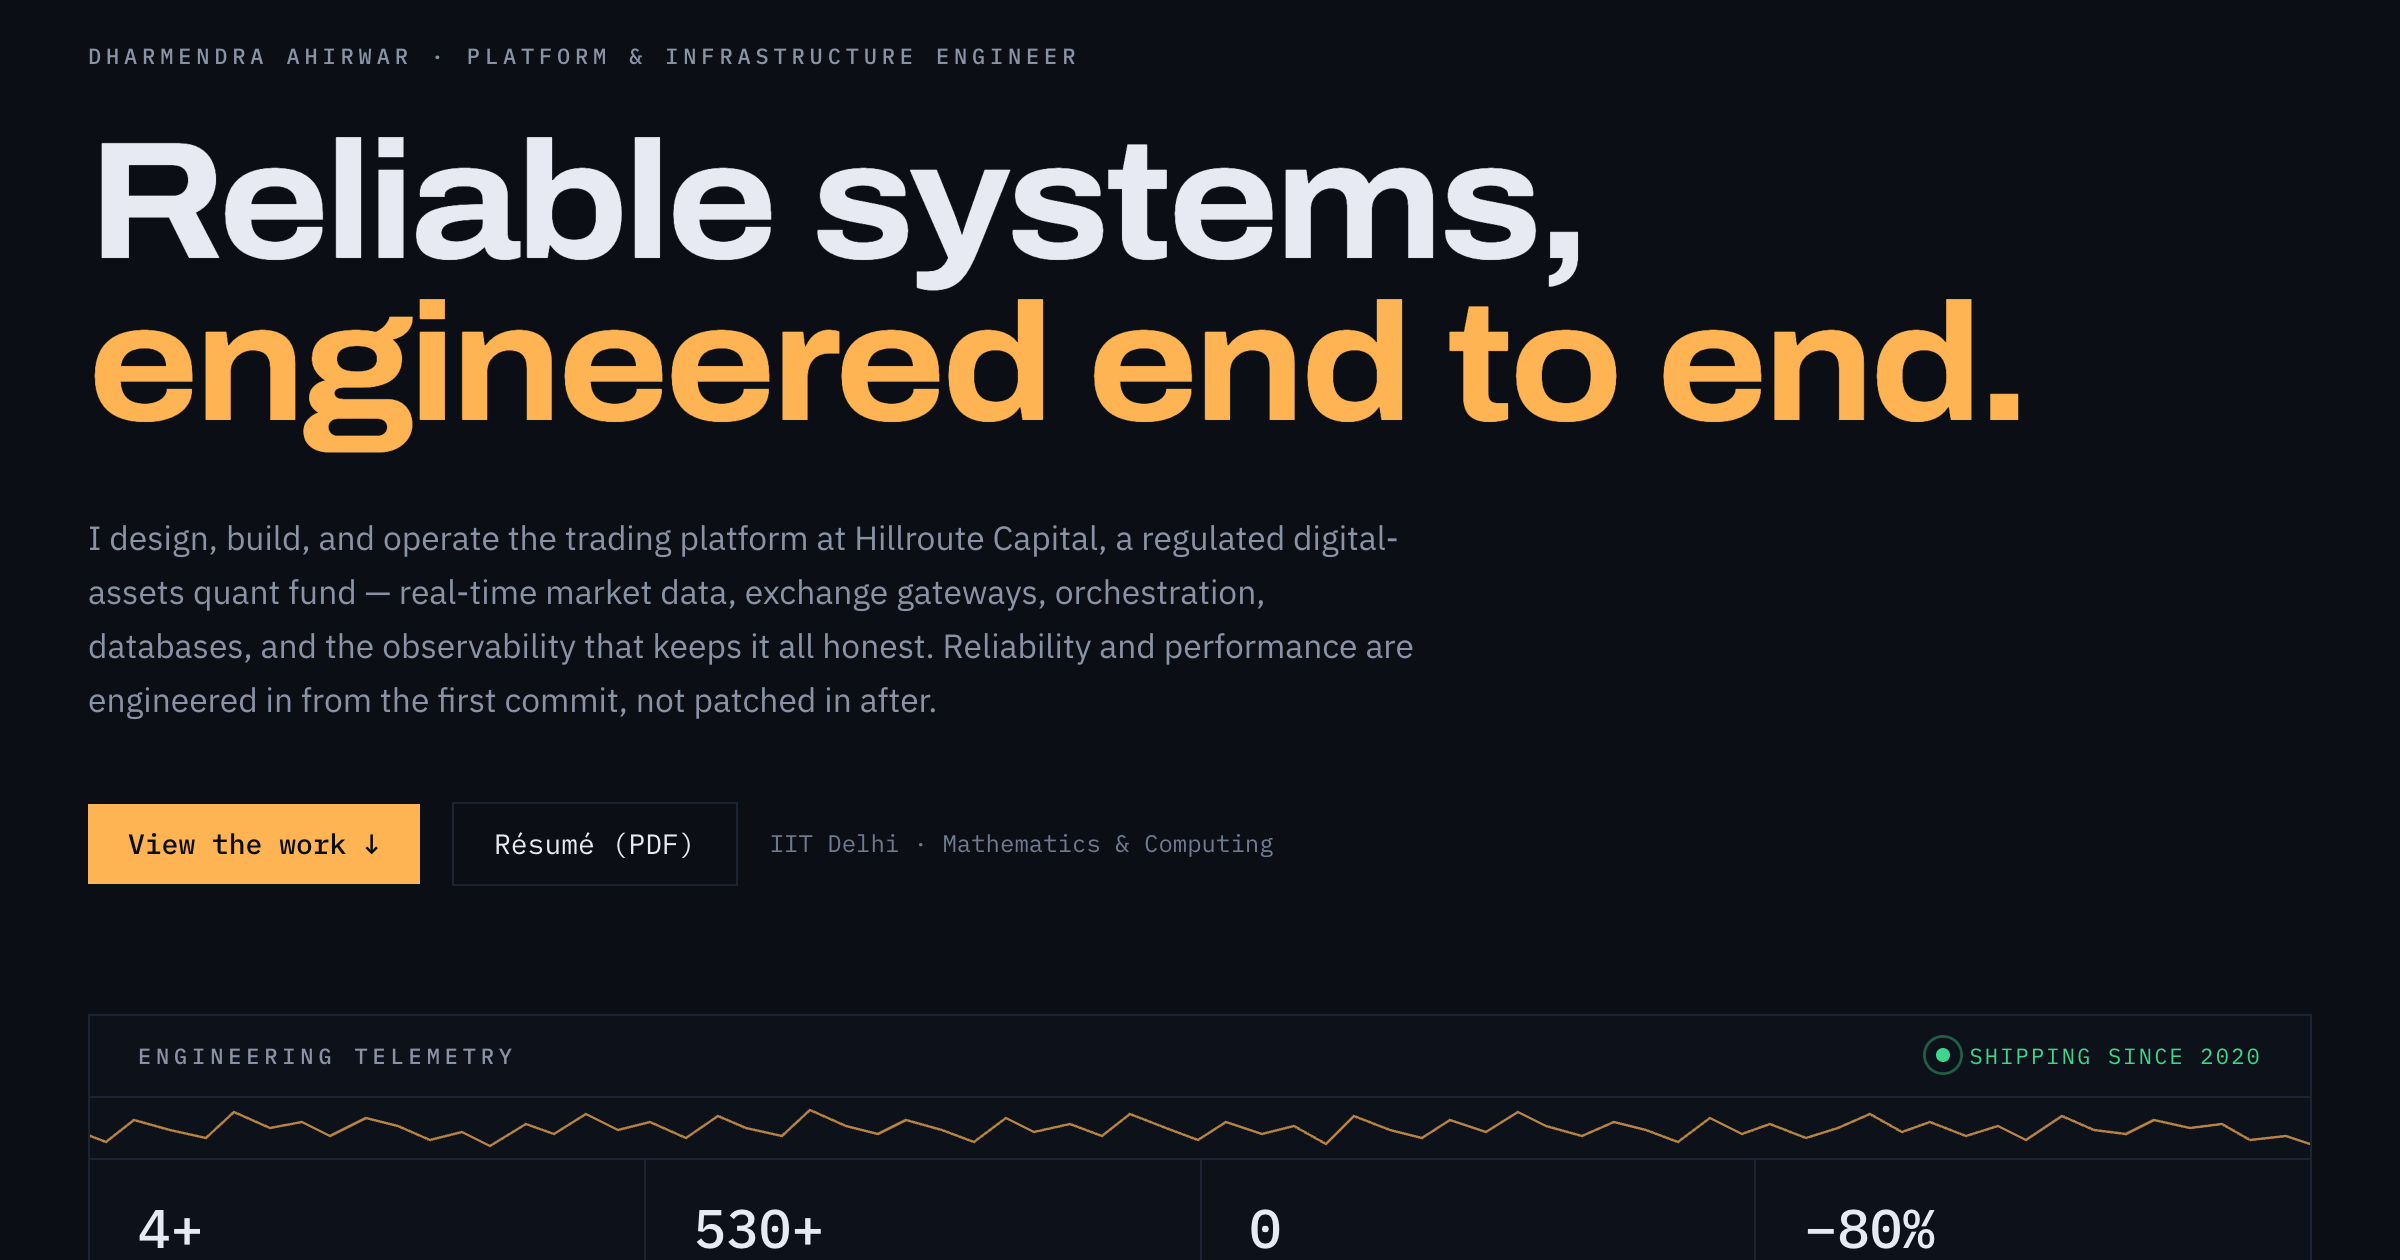
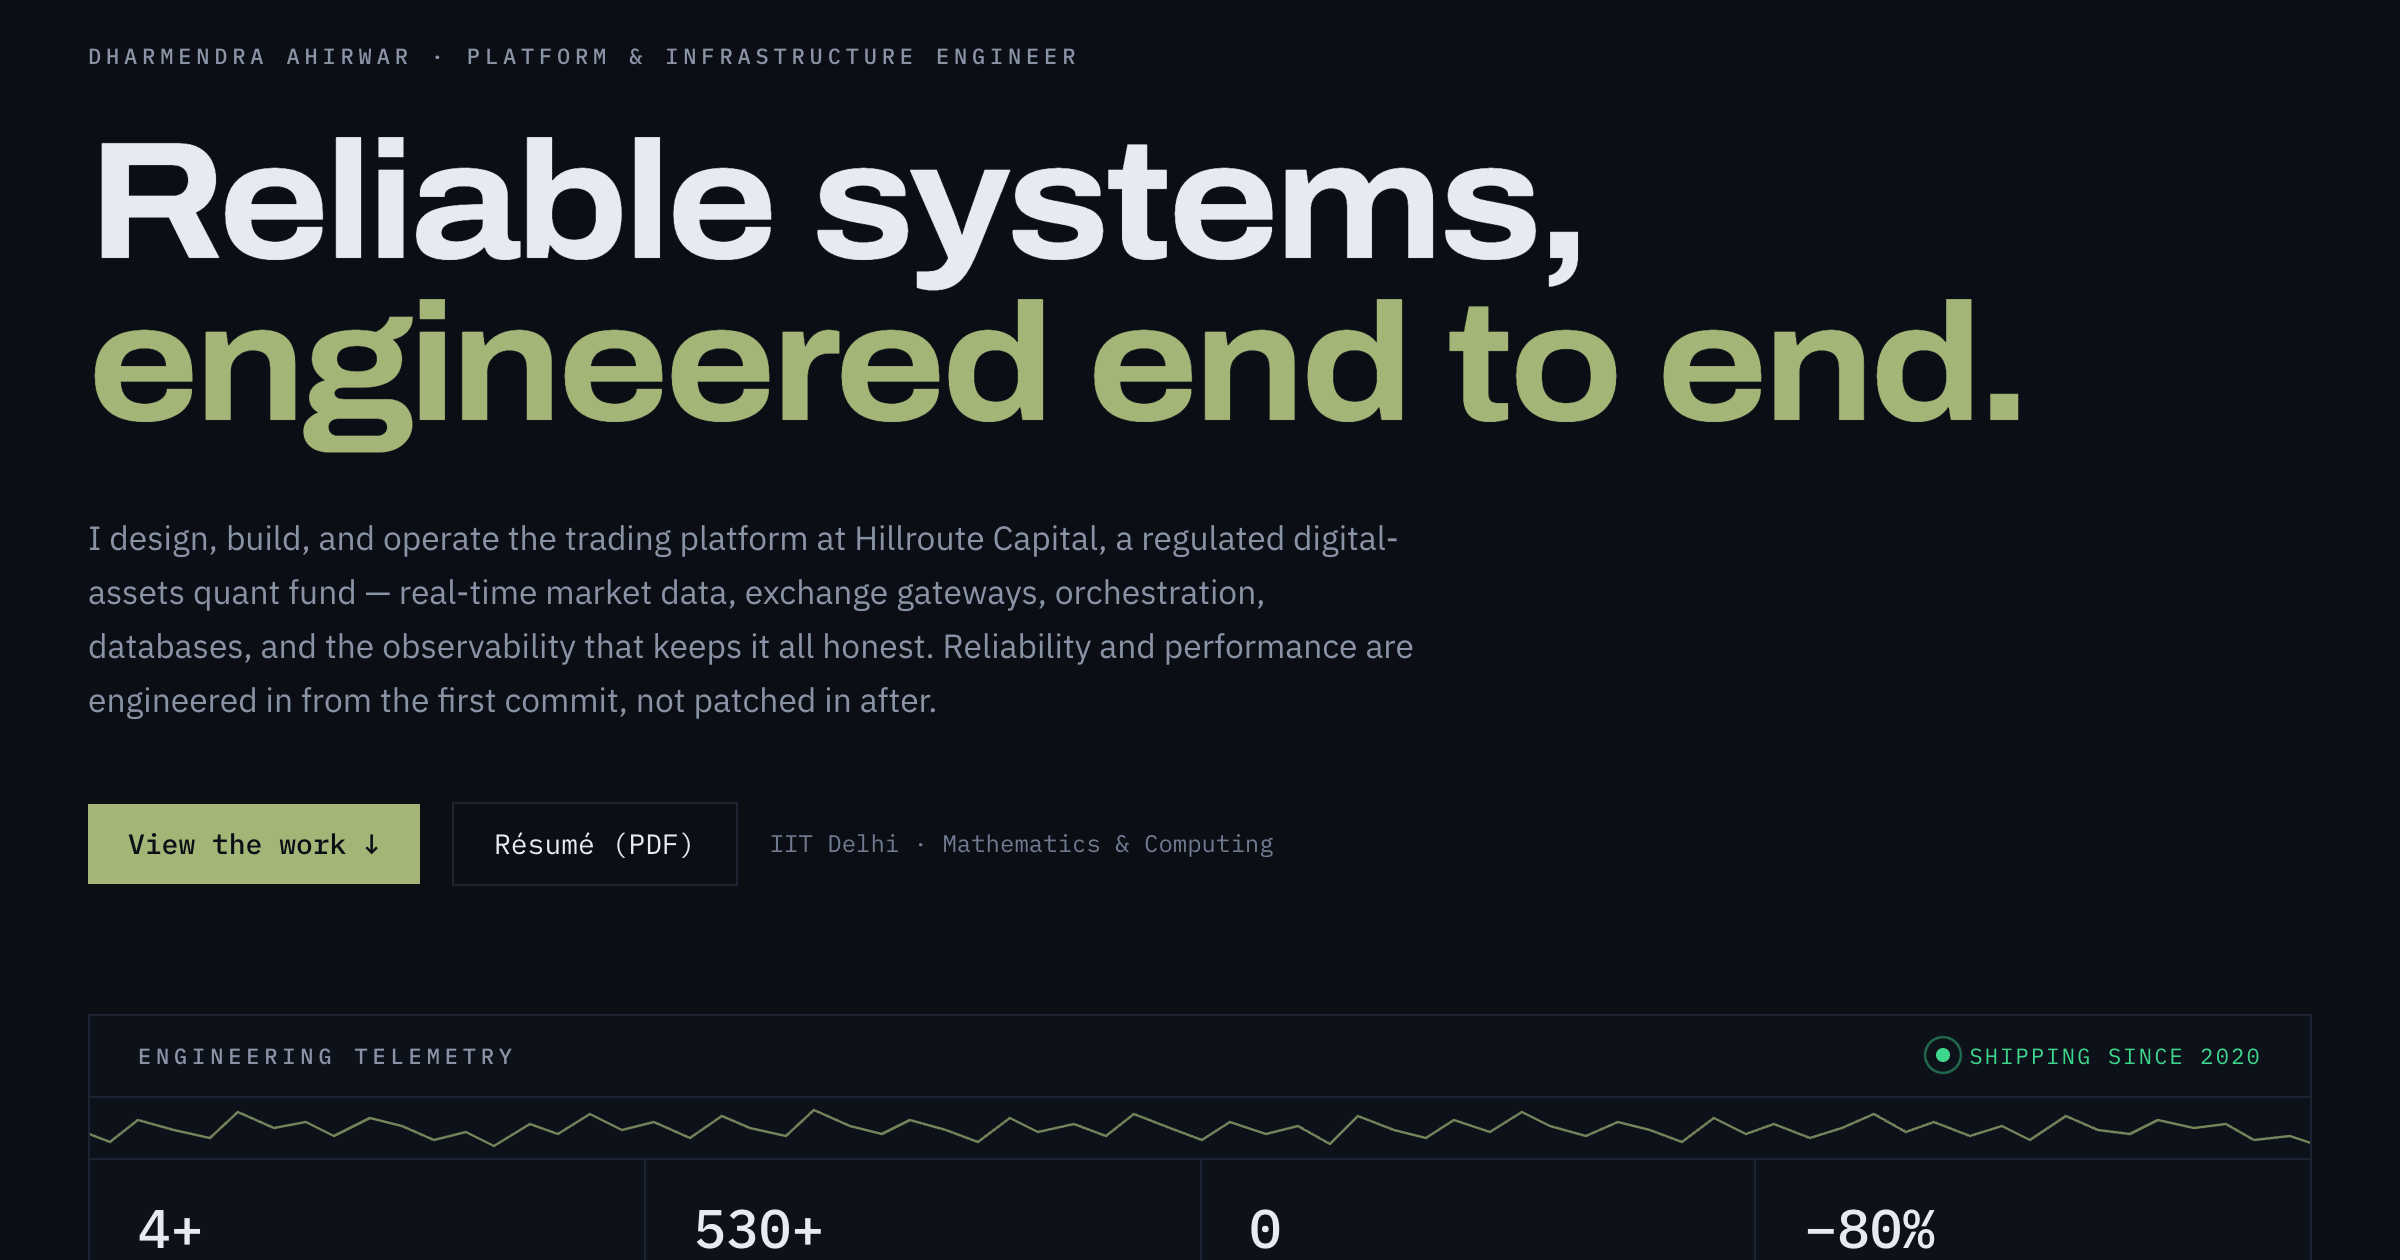
Retheme accent from amber to olive sage
Swap the signal color to a soothing olive (#a3b577) across tokens,
selection, tape, diagram, favicon, and OG card; rename the token
amber → accent so future retheming is a one-line change.

diff --git a/components/MarketDataDiagram.tsx b/components/MarketDataDiagram.tsx
@@ -1,11 +1,11 @@
 /* System diagram for the market-data case study. Pure inline SVG in the
-   site's palette; amber is reserved for the correctness path. */
+   site's palette; accent is reserved for the correctness path. */
 
 const INK = "#e7eaf2";
 const MUTED = "#8a93a6";
 const LINE = "#2a3346";
 const PANEL = "#0d1119";
-const AMBER = "#ffb454";
+const ACCENT = "#a3b577";
 
 function Box({
   x,
@@ -14,7 +14,7 @@ function Box({
   h,
   title,
   sub,
-  amber = false,
+  accent = false,
 }: {
   x: number;
   y: number;
@@ -22,7 +22,7 @@ function Box({
   h: number;
   title: string;
   sub?: string;
-  amber?: boolean;
+  accent?: boolean;
 }) {
   return (
     <g>
@@ -32,8 +32,8 @@ function Box({
         width={w}
         height={h}
         fill={PANEL}
-        stroke={amber ? AMBER : LINE}
-        strokeWidth={amber ? 1.2 : 1}
+        stroke={accent ? ACCENT : LINE}
+        strokeWidth={accent ? 1.2 : 1}
       />
       <text
         x={x + w / 2}
@@ -84,8 +84,8 @@ export default function MarketDataDiagram() {
           <marker id="arr" viewBox="0 0 8 8" refX="7" refY="4" markerWidth="6" markerHeight="6" orient="auto-start-reverse">
             <path d="M0,0 L8,4 L0,8 z" fill={LINE} />
           </marker>
-          <marker id="arrAmber" viewBox="0 0 8 8" refX="7" refY="4" markerWidth="6" markerHeight="6" orient="auto-start-reverse">
-            <path d="M0,0 L8,4 L0,8 z" fill={AMBER} />
+          <marker id="arrAccent" viewBox="0 0 8 8" refX="7" refY="4" markerWidth="6" markerHeight="6" orient="auto-start-reverse">
+            <path d="M0,0 L8,4 L0,8 z" fill={ACCENT} />
           </marker>
         </defs>
 
@@ -108,20 +108,20 @@ export default function MarketDataDiagram() {
         <Box x={185} y={118} w={150} h={44} title="WS INGEST · B" sub="staggered replica" />
         <Box x={185} y={215} w={150} h={44} title="REST VALIDATE" sub="+ backfill" />
         {/* redundancy bracket */}
-        <path d="M343,58 h5 v104 h-5" fill="none" stroke={AMBER} strokeWidth={1} />
+        <path d="M343,58 h5 v104 h-5" fill="none" stroke={ACCENT} strokeWidth={1} />
         <text x={260} y={178} textAnchor="middle" fontSize="8.5" fill={MUTED}>
           redundant · staggered · no double writes
         </text>
 
         {/* column 3 — correctness core */}
-        <Box x={395} y={58} w={150} h={44} title="GAP DETECTION" sub="redis lua · atomic claim" amber />
+        <Box x={395} y={58} w={150} h={44} title="GAP DETECTION" sub="redis lua · atomic claim" accent />
         <Box x={395} y={132} w={150} h={44} title="STORE" sub="redis hot · postgresql" />
-        <Box x={395} y={215} w={150} h={44} title="RECONCILIATION" sub="ws ↔ rest" amber />
+        <Box x={395} y={215} w={150} h={44} title="RECONCILIATION" sub="ws ↔ rest" accent />
         <Box x={395} y={292} w={150} h={40} title="DOLLAR-BAR PIPELINES" />
 
         {/* column 4 — consumers behind the freshness contract */}
-        <rect x={565} y={88} width={128} height={200} fill="none" stroke={AMBER} strokeWidth={1} strokeDasharray="5 4" opacity={0.75} />
-        <text x={629} y={78} textAnchor="middle" fontSize="8.5" fill={AMBER} style={{ letterSpacing: "0.06em" }}>
+        <rect x={565} y={88} width={128} height={200} fill="none" stroke={ACCENT} strokeWidth={1} strokeDasharray="5 4" opacity={0.75} />
+        <text x={629} y={78} textAnchor="middle" fontSize="8.5" fill={ACCENT} style={{ letterSpacing: "0.06em" }}>
           FRESHNESS CONTRACT
         </text>
         <Box x={575} y={108} w={108} h={44} title="FRESHNESS GATE" sub="verify before read" />
@@ -146,9 +146,9 @@ export default function MarketDataDiagram() {
         <line x1={335} y1={237} x2={395} y2={237} stroke={LINE} markerEnd="url(#arr)" />
         <text x={365} y={230} textAnchor="middle" fontSize="8.5" fill={MUTED}>dual path</text>
 
-        {/* reconciliation ↔ store (amber: the tolerance) */}
-        <line x1={470} y1={215} x2={470} y2={176} stroke={AMBER} markerEnd="url(#arrAmber)" markerStart="url(#arrAmber)" />
-        <text x={481} y={199} fontSize="8.5" fill={AMBER}>0.01% tolerance</text>
+        {/* reconciliation ↔ store (accent: the tolerance) */}
+        <line x1={470} y1={215} x2={470} y2={176} stroke={ACCENT} markerEnd="url(#arrAccent)" markerStart="url(#arrAccent)" />
+        <text x={481} y={199} fontSize="8.5" fill={ACCENT}>0.01% tolerance</text>
 
         {/* store → dollar-bar (elbow left of reconciliation) */}
         <path d="M395,154 h-18 v158 h18" fill="none" stroke={LINE} markerEnd="url(#arr)" />
@@ -159,9 +159,9 @@ export default function MarketDataDiagram() {
         {/* dollar-bar → freshness gate (elbow right) */}
         <path d="M545,312 h13 v-168 h17" fill="none" stroke={LINE} markerEnd="url(#arr)" />
 
-        {/* gate → strategies (amber: the guarantee) */}
-        <line x1={605} y1={152} x2={605} y2={222} stroke={AMBER} markerEnd="url(#arrAmber)" />
-        <text fontSize="8.5" fill={AMBER}>
+        {/* gate → strategies (accent: the guarantee) */}
+        <line x1={605} y1={152} x2={605} y2={222} stroke={ACCENT} markerEnd="url(#arrAccent)" />
+        <text fontSize="8.5" fill={ACCENT}>
           <tspan x={614} y={185}>complete +</tspan>
           <tspan x={614} y={196}>fresh only</tspan>
         </text>

diff --git a/components/Work.tsx b/components/Work.tsx
@@ -207,7 +207,7 @@ function CaseBody({ c }: { c: CaseStudy }) {
         <ul className="flex flex-col gap-2">
           {c.approach.map((b) => (
             <li key={b.head} className="flex gap-3">
-              <span aria-hidden="true" className="select-none pt-[0.55em] font-mono text-[0.5rem] leading-none text-amber">
+              <span aria-hidden="true" className="select-none pt-[0.55em] font-mono text-[0.5rem] leading-none text-accent">
                 ▪
               </span>
               <span>
@@ -241,7 +241,7 @@ export default function Work() {
           <details key={c.tag} id={`case-${c.tag}`} open={c.featured}>
             <summary className="group grid gap-2 py-6 pl-5 pr-12 sm:grid-cols-[9rem_1fr_auto] sm:gap-6 sm:pr-4">
               <span className="pt-1">
-                <span className="block font-mono text-xs font-medium text-amber">
+                <span className="block font-mono text-xs font-medium text-accent">
                   {c.tag}
                 </span>
                 <span className="mt-1 block font-mono text-[0.6875rem] text-faint">
@@ -249,7 +249,7 @@ export default function Work() {
                 </span>
               </span>
               <span>
-                <span className="font-display text-xl font-semibold text-ink transition-colors group-hover:text-amber sm:text-2xl">
+                <span className="font-display text-xl font-semibold text-ink transition-colors group-hover:text-accent sm:text-2xl">
                   {c.title}
                 </span>
                 <span className="mt-1.5 block text-[0.95rem] leading-relaxed text-muted">

diff --git a/components/Hero.tsx b/components/Hero.tsx
@@ -11,7 +11,7 @@ export default function Hero() {
         style={{ fontSize: "clamp(2.6rem, 7vw, 5.2rem)", fontStretch: "112%" }}
       >
         <span className="block">Reliable systems,</span>
-        <span className="block text-amber">engineered end to end.</span>
+        <span className="block text-accent">engineered end to end.</span>
       </h1>
       <p className="mt-8 max-w-2xl text-[1.05rem] leading-relaxed text-muted">
         I design, build, and operate the trading platform at Hillroute
@@ -23,13 +23,13 @@ export default function Hero() {
       <div className="mt-9 flex flex-wrap items-center gap-4">
         <a
           href="#work"
-          className="bg-amber px-5 py-2.5 font-mono text-sm font-medium text-bg transition-opacity hover:opacity-85"
+          className="bg-accent px-5 py-2.5 font-mono text-sm font-medium text-bg transition-opacity hover:opacity-85"
         >
           View the work ↓
         </a>
         <a
           href="/Dharmendra-Ahirwar-Resume.pdf"
-          className="border border-line px-5 py-2.5 font-mono text-sm text-ink transition-colors hover:border-amber hover:text-amber"
+          className="border border-line px-5 py-2.5 font-mono text-sm text-ink transition-colors hover:border-accent hover:text-accent"
         >
           Résumé (PDF)
         </a>

diff --git a/components/Contact.tsx b/components/Contact.tsx
@@ -18,7 +18,7 @@ export default function Contact() {
         <div className="mt-8 flex flex-wrap items-center gap-4">
           <a
             href="mailto:dharmendra.ahirwar101@gmail.com"
-            className="bg-amber px-5 py-2.5 font-mono text-sm font-medium text-bg transition-opacity hover:opacity-85"
+            className="bg-accent px-5 py-2.5 font-mono text-sm font-medium text-bg transition-opacity hover:opacity-85"
           >
             dharmendra.ahirwar101@gmail.com
           </a>
@@ -28,7 +28,7 @@ export default function Contact() {
               href={l.href}
               target={l.href.startsWith("http") ? "_blank" : undefined}
               rel={l.href.startsWith("http") ? "noopener noreferrer" : undefined}
-              className="border border-line px-5 py-2.5 font-mono text-sm text-ink transition-colors hover:border-amber hover:text-amber"
+              className="border border-line px-5 py-2.5 font-mono text-sm text-ink transition-colors hover:border-accent hover:text-accent"
             >
               {l.label}
             </a>

diff --git a/app/globals.css b/app/globals.css
@@ -8,7 +8,7 @@
   --color-ink: #e7eaf2;
   --color-muted: #8a93a6;
   --color-faint: #707b91; /* 4.5:1+ on --color-bg (WCAG AA at small sizes) */
-  --color-amber: #ffb454;
+  --color-accent: #a3b577;
   --color-green: #3dd68c;
   --font-display: var(--font-archivo);
   --font-sans: var(--font-plex-sans);
@@ -20,7 +20,7 @@ html {
 }
 
 ::selection {
-  background: #ffb454;
+  background: #a3b577;
   color: #0b0e14;
 }
 
@@ -101,7 +101,7 @@ html {
   top: 0;
   bottom: 0;
   width: 2px;
-  background: #ffb454;
+  background: #a3b577;
   transform: scaleY(0);
   transform-origin: top;
   transition: transform 0.25s ease;
@@ -121,7 +121,7 @@ html {
 a:focus-visible,
 button:focus-visible,
 summary:focus-visible {
-  outline: 2px solid #ffb454;
+  outline: 2px solid #a3b577;
   outline-offset: 3px;
   border-radius: 2px;
 }

diff --git a/components/CaseLink.tsx b/components/CaseLink.tsx
@@ -16,7 +16,7 @@ export default function CaseLink({
         const el = document.getElementById(`case-${tag}`);
         if (el instanceof HTMLDetailsElement) el.open = true;
       }}
-      className="inline-flex items-center gap-1.5 border border-line px-2.5 py-1 font-mono text-[0.6875rem] text-amber transition-colors hover:border-amber"
+      className="inline-flex items-center gap-1.5 border border-line px-2.5 py-1 font-mono text-[0.6875rem] text-accent transition-colors hover:border-accent"
     >
       {children}
       <span aria-hidden="true">→ {tag}</span>

diff --git a/components/Experience.tsx b/components/Experience.tsx
@@ -56,7 +56,7 @@ export default function Experience() {
                 i > 0 ? "border-t border-line" : ""
               }`}
             >
-              <span className="pt-1 font-mono text-xs text-amber">{e.period}</span>
+              <span className="pt-1 font-mono text-xs text-accent">{e.period}</span>
               <div>
                 <h3 className="font-display text-xl font-semibold text-ink">
                   {e.role}

diff --git a/components/StatusBar.tsx b/components/StatusBar.tsx
@@ -44,7 +44,7 @@ export default function StatusBar() {
             <a
               key={item.href}
               href={item.href}
-              className="text-muted transition-colors hover:text-amber"
+              className="text-muted transition-colors hover:text-accent"
             >
               {item.label}
             </a>

diff --git a/components/Telemetry.tsx b/components/Telemetry.tsx
@@ -82,7 +82,7 @@ function Tape() {
             <polyline
               points={POINTS}
               fill="none"
-              stroke="#FFB454"
+              stroke="#A3B577"
               strokeWidth="1.2"
               vectorEffect="non-scaling-stroke"
             />
